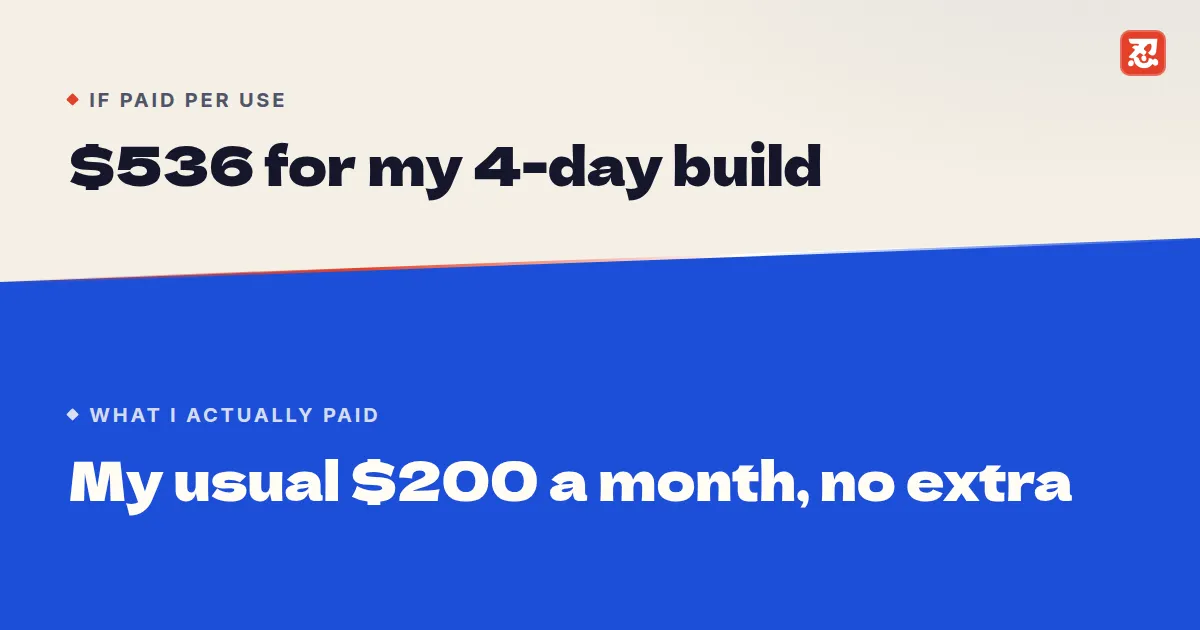
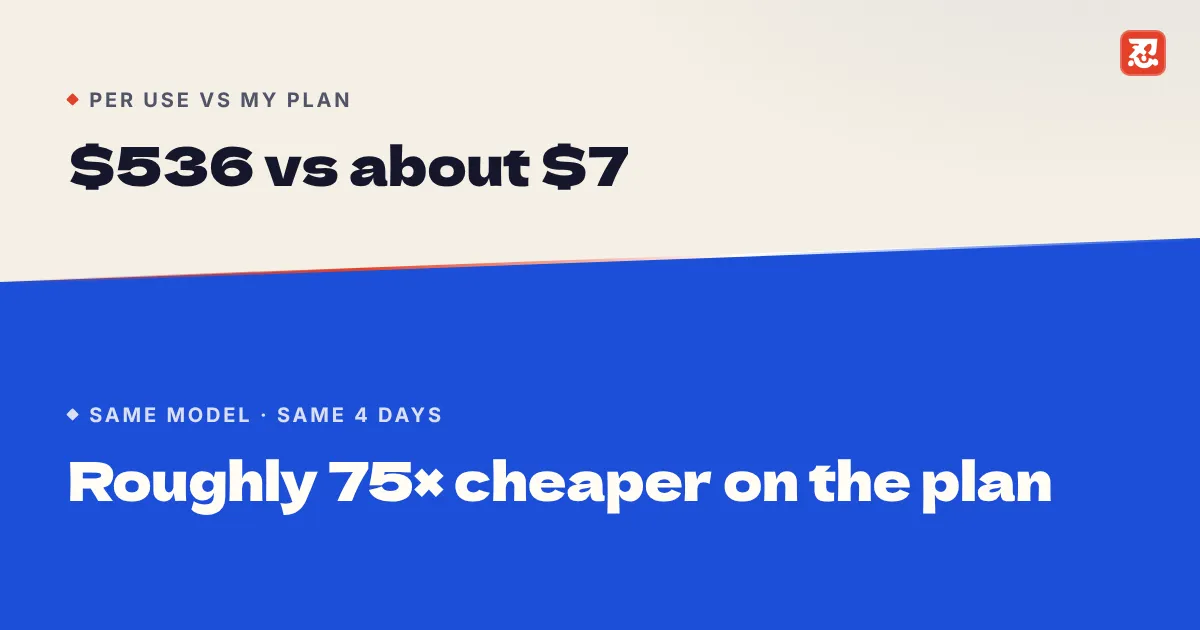
Field guide card: lead with "roughly 75× cheaper on the plan"
The old card set $536 for 4 days against $200 for a whole month, which
undersold the gap. The new split compares the same 4 days on both sides:
$536 per use vs about $7 of the plan, roughly 75× cheaper. The social
card's headline is now the guide's own question, so its evidence row
isn't repeating the same numbers. Alt text updated to match.

Claude-Session: https://claude.ai/code/session_01CBDsdRvDLB8uS2WJ1T9V6b

diff --git a/src/lib/fieldNotes.ts b/src/lib/fieldNotes.ts
@@ -81,7 +81,7 @@ function guideNote(): Omit<FieldNote, 'no'> {
     image: {
       src: GUIDE_HERO,
       srcLight: `/images/content/${GUIDE_SLUG}-hero-light.webp`,
-      alt: 'Split card: priced per use, my 4-day build came to $536, which I never paid, against what I actually paid, my usual $200 a month with nothing extra.',
+      alt: 'Split card: for the same 4 days on the same model, $536 if paid per use against about $7 of my monthly plan, so the plan came out roughly 75 times cheaper.',
       ...size,
     },
     // Pinned first on page 1. To unpin, set this to false: the guide then
